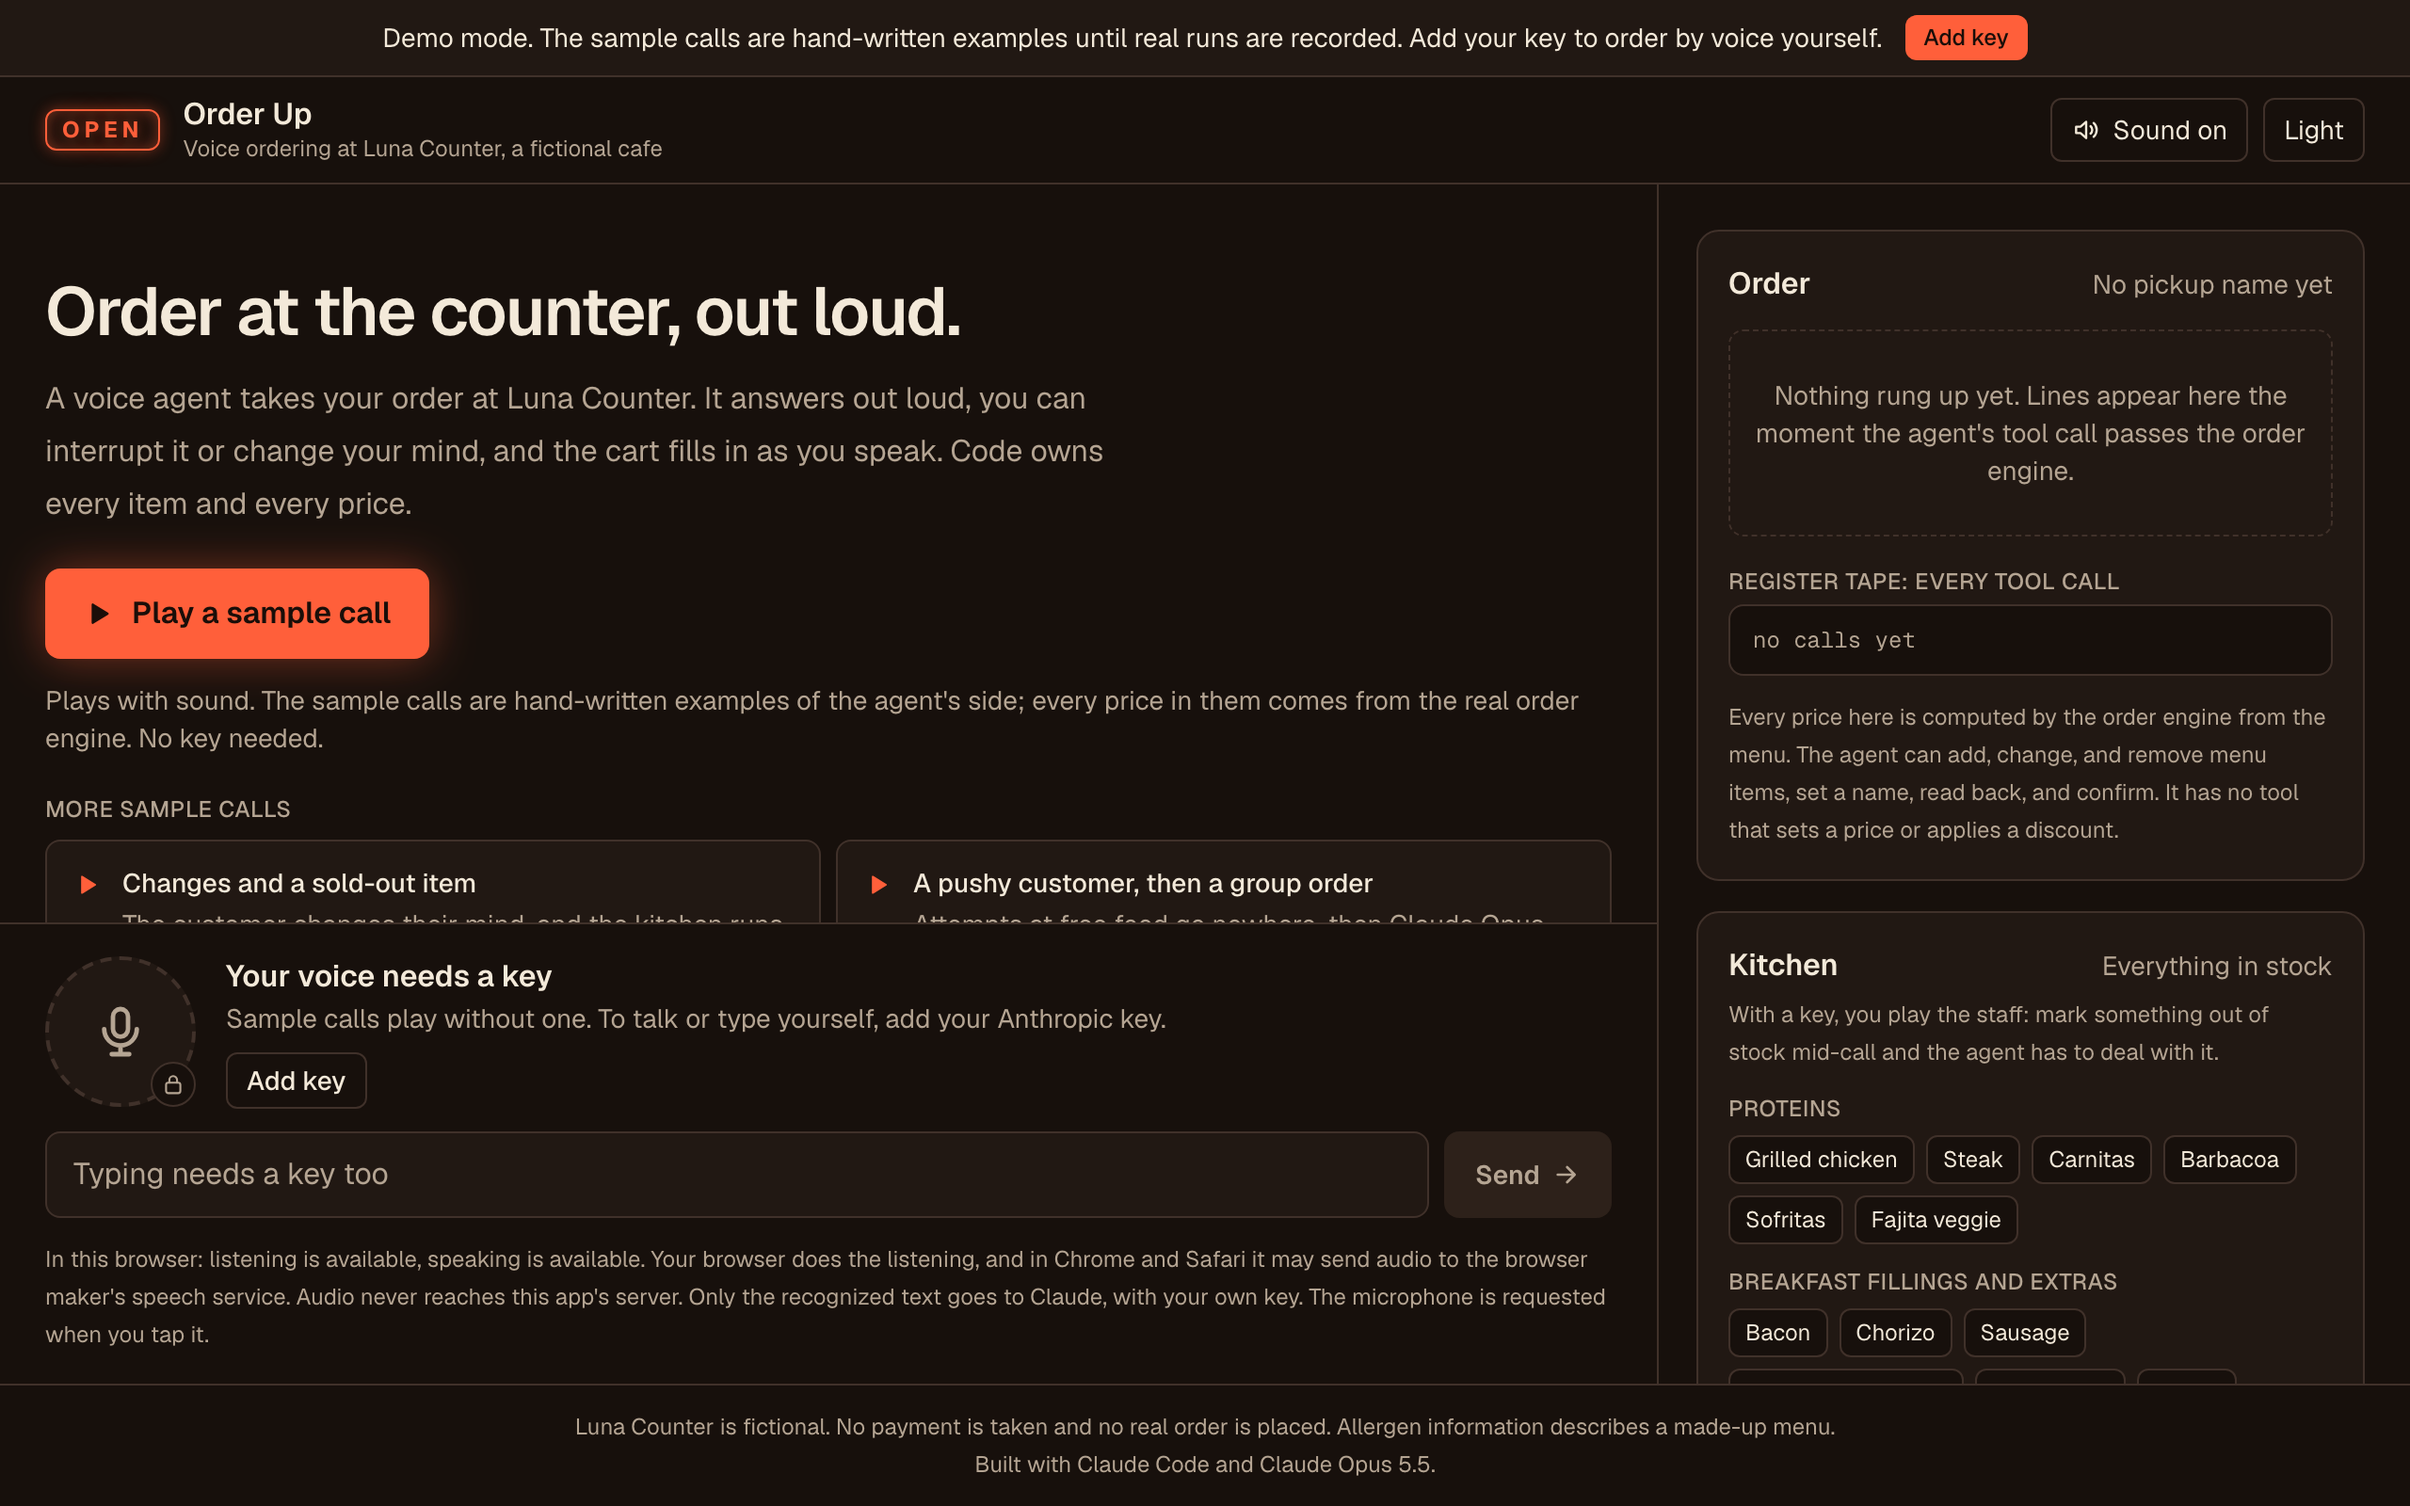
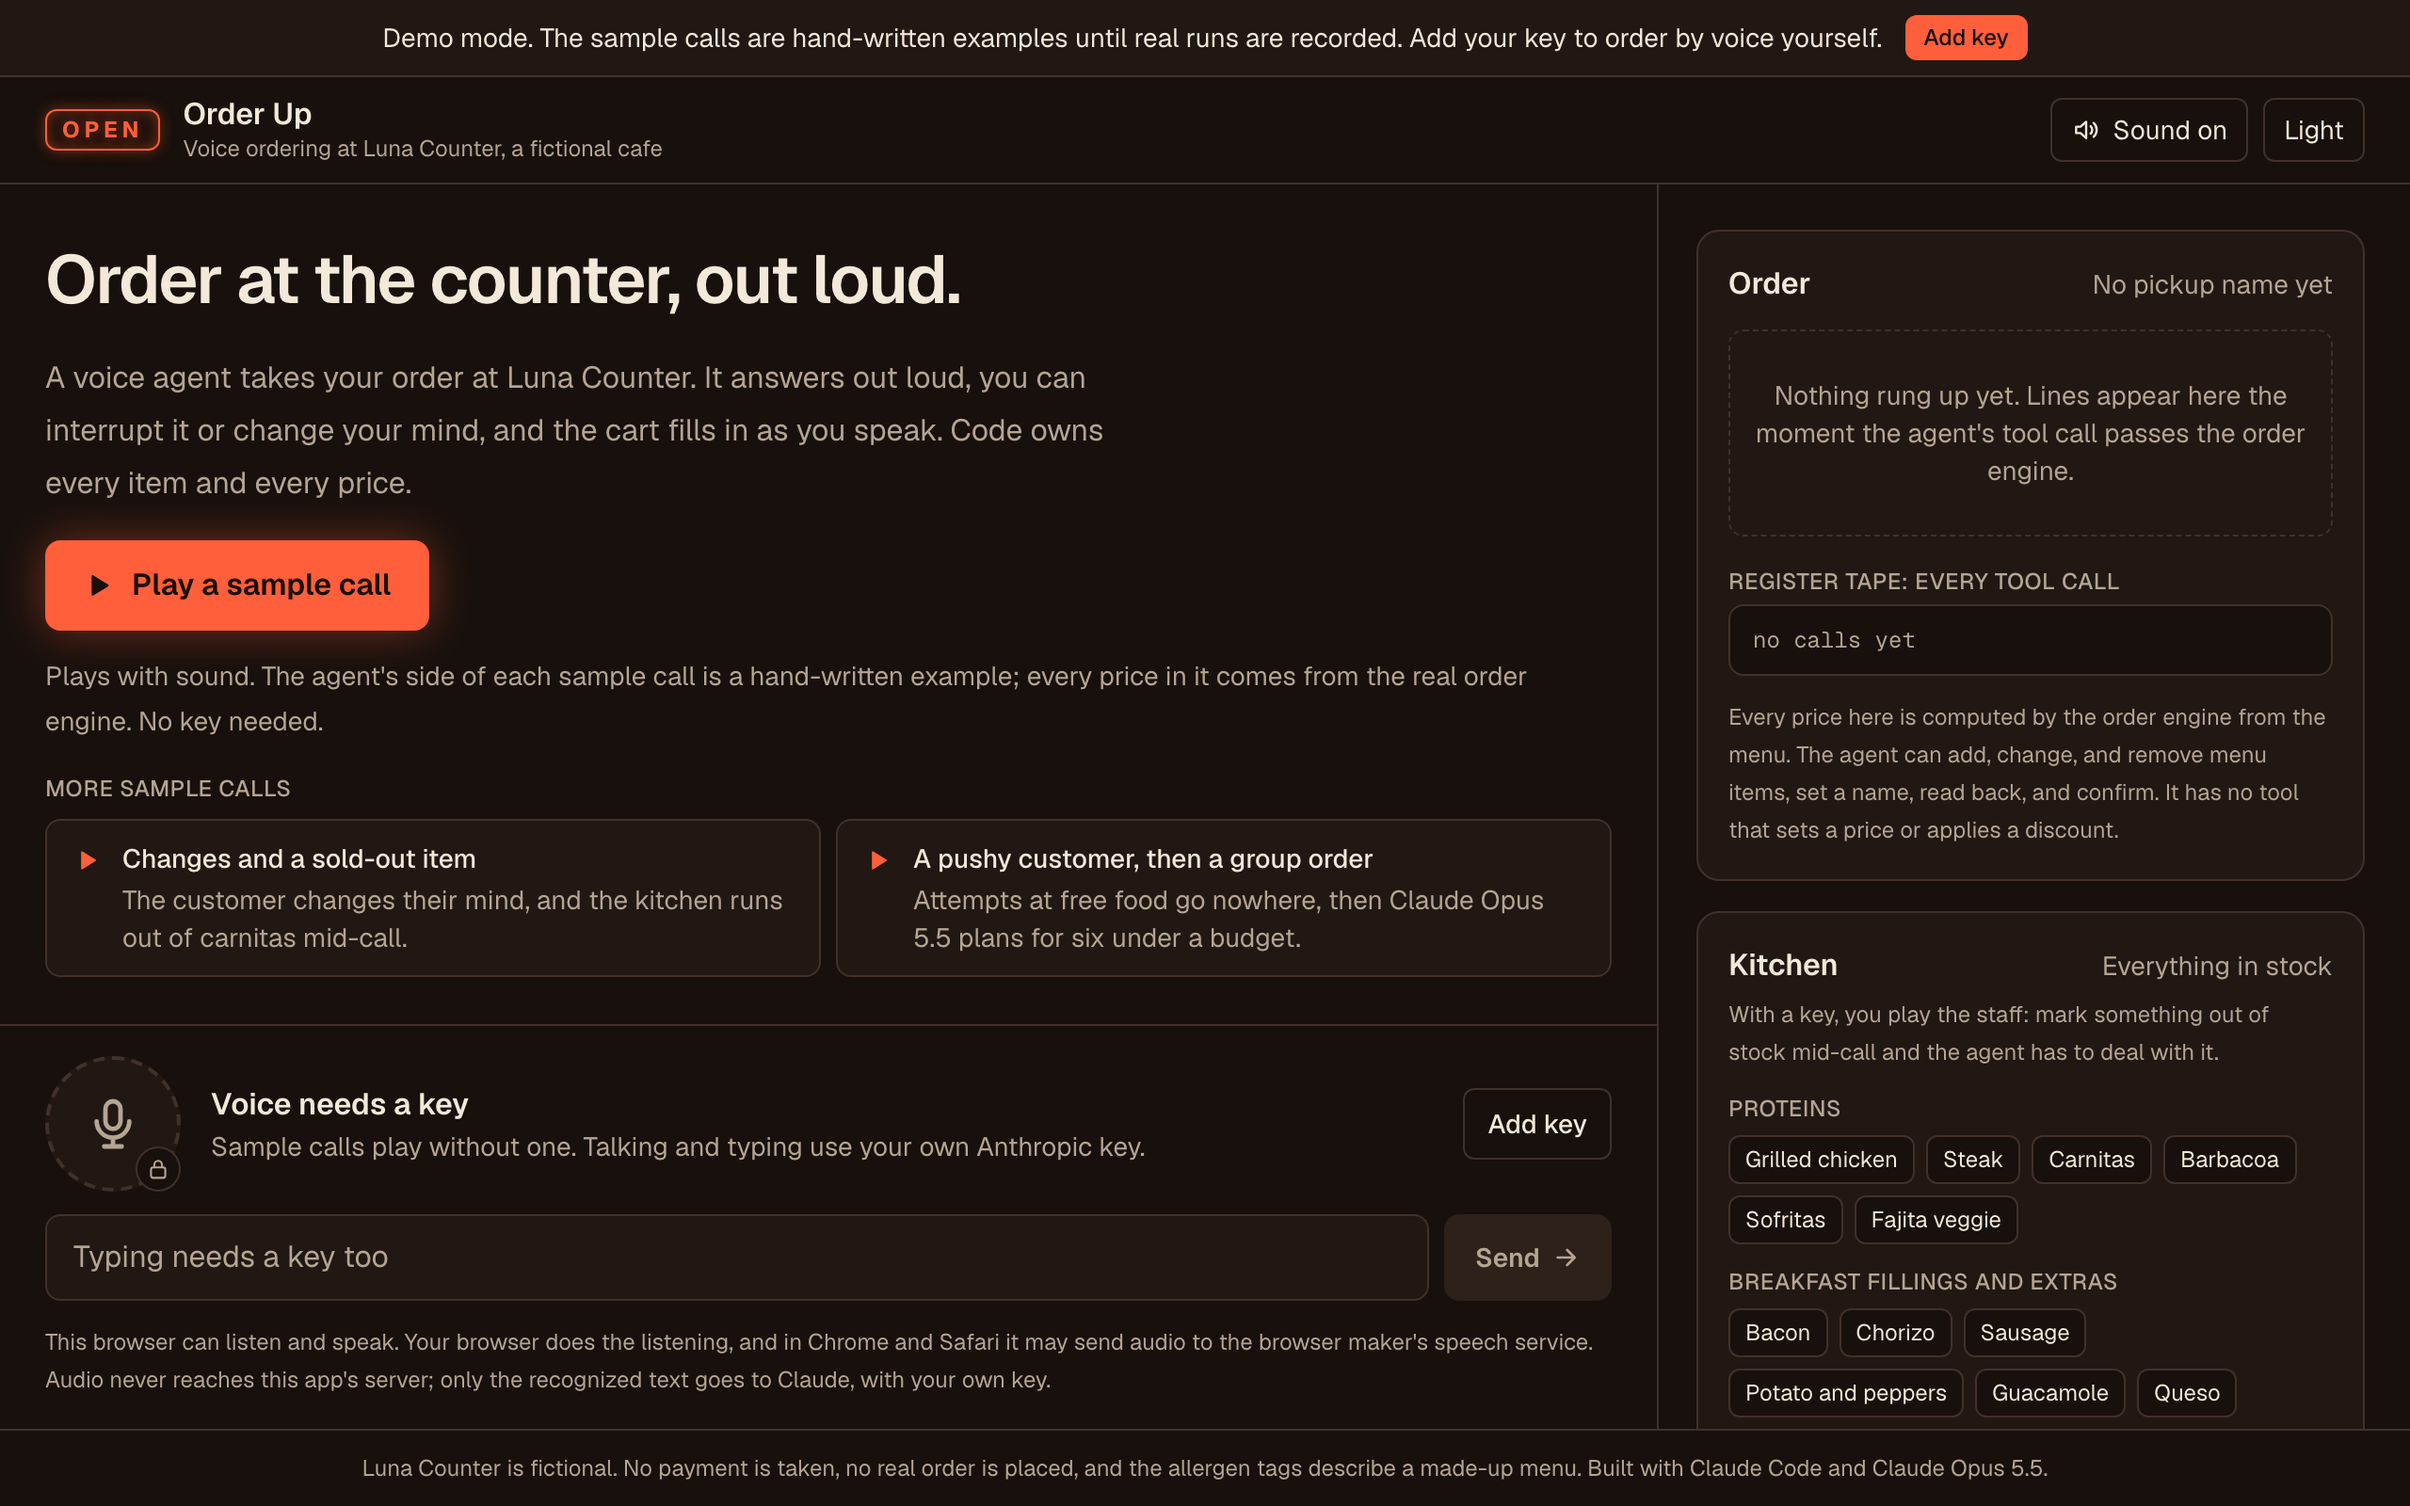
fix: compact dock, phone layout, and sample-to-live handoff
The call to action is on the first screen at 360x640, sample playback controls
replace the text box while a sample plays, the plan card shows inline on
phones, failed turns are marked as not answered, and a visitor with a key can
start their own call after a sample finishes.

Changed region(s): [[0.0, 0.1562, 0.9375, 1.0], [0.375, 0.5625, 0.6562, 0.6562], [0.625, 0.7188, 0.6562, 0.7812]]

diff --git a/components/order/Tape.tsx b/components/order/Tape.tsx
@@ -1,0 +1,61 @@
+import type { LogEntry } from "@/lib/voice/session";
+import { CheckIcon, CrossIcon } from "./icons";
+
+/** One tool call as a receipt-style line. Also used in the order panel's tape. */
+export function TapeLine({ entry, fresh = false }: { entry: LogEntry; fresh?: boolean }) {
+  const colon = entry.summary.indexOf(":");
+  const verb = colon === -1 ? entry.summary : entry.summary.slice(0, colon);
+  const rest = colon === -1 ? "" : entry.summary.slice(colon + 1).trim();
+  return (
+    <div
+      className={`flex items-start gap-2 rounded-sm px-1.5 py-1 font-mono text-xs leading-5 ${fresh ? "land" : ""}`}
+    >
+      <span
+        className={`mt-0.5 inline-flex size-4 shrink-0 items-center justify-center ${entry.ok ? "text-success" : "text-danger"}`}
+      >
+        {entry.ok ? <CheckIcon className="size-3.5" /> : <CrossIcon className="size-3.5" />}
+        <span className="sr-only">{entry.ok ? "Done:" : "Refused by the register:"}</span>
+      </span>
+      <span className="min-w-0 [overflow-wrap:anywhere]">
+        <span className={entry.ok ? "text-fg" : "text-danger"}>{verb}</span>
+        {rest && <span className="text-muted">: {rest}</span>}
+      </span>
+    </div>
+  );
+}
+
+/** A group plan as the order engine accepted it: the lines, the total, and the checks it passed. */
+export function PlanCard({ entry }: { entry: LogEntry }) {
+  const plan = entry.plan;
+  if (!plan) return null;
+  return (
+    <div className="my-1 rounded-md border border-border bg-bg p-2.5 text-xs">
+      <p className="font-medium">
+        Plan {plan.planId}: proposed by Claude Opus 5.5, checked and priced by the order engine
+      </p>
+      <ul className="mt-1.5 flex flex-col gap-0.5 font-mono">
+        {plan.lines.map((line, index) => (
+          <li key={index} className="flex justify-between gap-3">
+            <span className="min-w-0 [overflow-wrap:anywhere]">
+              {line.quantity} × {line.name}
+              {line.details.length > 0 ? `, ${line.details.join(", ")}` : ""}
+            </span>
+            <span className="shrink-0 tabular-nums">{line.price}</span>
+          </li>
+        ))}
+        <li className="mt-1 flex justify-between gap-3 border-t border-border pt-1 font-semibold">
+          <span>Total with tax{plan.budget ? ` (budget ${plan.budget})` : ""}</span>
+          <span className="tabular-nums">{plan.total}</span>
+        </li>
+      </ul>
+      <ul className="mt-2 flex flex-col gap-0.5 text-muted">
+        {plan.checks.map((check) => (
+          <li key={check} className="flex items-start gap-1.5">
+            <CheckIcon className="mt-0.5 size-3 shrink-0 text-success" />
+            <span>{check}</span>
+          </li>
+        ))}
+      </ul>
+    </div>
+  );
+}

diff --git a/components/order/Conversation.tsx b/components/order/Conversation.tsx
@@ -2,8 +2,9 @@
 
 import { CAFE } from "@/lib/menu";
 import { SAMPLES } from "@/lib/samples";
-import type { CallSnapshot, Caption, LogEntry } from "@/lib/voice/session";
-import { CheckIcon, CrossIcon, PlayIcon } from "./icons";
+import type { CallSnapshot, Caption } from "@/lib/voice/session";
+import { PlayIcon } from "./icons";
+import { PlanCard, TapeLine } from "./Tape";
 
 interface ConversationProps {
   snapshot: CallSnapshot;
@@ -11,29 +12,6 @@ interface ConversationProps {
   placeholder: boolean;
   isLive: boolean;
   onPlay: (sampleId: string) => void;
-}
-
-/** One tool call as a receipt-style line. Also used in the order panel's tape. */
-export function TapeLine({ entry, fresh = false }: { entry: LogEntry; fresh?: boolean }) {
-  const colon = entry.summary.indexOf(":");
-  const verb = colon === -1 ? entry.summary : entry.summary.slice(0, colon);
-  const rest = colon === -1 ? "" : entry.summary.slice(colon + 1).trim();
-  return (
-    <div
-      className={`flex items-start gap-2 rounded-sm px-1.5 py-1 font-mono text-xs leading-5 ${fresh ? "land" : ""}`}
-    >
-      <span
-        className={`mt-0.5 inline-flex size-4 shrink-0 items-center justify-center ${entry.ok ? "text-success" : "text-danger"}`}
-      >
-        {entry.ok ? <CheckIcon className="size-3.5" /> : <CrossIcon className="size-3.5" />}
-        <span className="sr-only">{entry.ok ? "Done:" : "Refused by the register:"}</span>
-      </span>
-      <span className="min-w-0 [overflow-wrap:anywhere]">
-        <span className={entry.ok ? "text-fg" : "text-danger"}>{verb}</span>
-        {rest && <span className="text-muted">: {rest}</span>}
-      </span>
-    </div>
-  );
 }
 
 function AgentCaption({ caption }: { caption: Extract<Caption, { role: "agent" }> }) {
@@ -191,6 +169,7 @@ export function Conversation({ snapshot, placeholder, isLive, onPlay }: Conversa
           // On wide screens the tape sits beside the order. On a phone it is shown here, in place.
           <div key={caption.id} className="lg:hidden">
             <TapeLine entry={caption.entry} />
+            <PlanCard entry={caption.entry} />
           </div>
         );
       })}

diff --git a/components/order/TimelinePanel.tsx b/components/order/TimelinePanel.tsx
@@ -71,22 +71,27 @@ function SampleStages({ timeline }: { timeline: TurnTimeline }) {
           </li>
         ))}
       </ol>
-      {timeline.placeholder || !timeline.recorded ? (
-        <p className="mt-3 rounded-md border border-dashed border-border px-2.5 py-2 text-xs leading-5 text-muted">
-          No numbers here on purpose. This sample call is a hand-written example, so nothing was
-          measured. On a live turn each stage shows its time in milliseconds after you stop talking.
-        </p>
-      ) : (
-        <p className="mt-3 rounded-md border border-dashed border-border px-2.5 py-2 text-xs leading-5 text-muted">
-          Recorded{timeline.recordedAt ? ` on ${timeline.recordedAt.slice(0, 10)}` : ""}, on the
-          server&apos;s clock:{" "}
-          {timeline.recorded.firstTextMs !== null
-            ? `first text after ${ms(timeline.recorded.firstTextMs)}, `
-            : ""}
-          whole turn in {ms(timeline.recorded.totalMs)}. Browser-side stages are only measured on a
-          live turn.
-        </p>
-      )}
+      <p className="mt-3 rounded-md border border-dashed border-border px-2.5 py-2 text-xs leading-5 text-muted">
+        {timeline.placeholder ? (
+          <>
+            No numbers here on purpose. This sample call is a hand-written example, so nothing was
+            measured. On a live turn each stage shows its time in milliseconds after you stop
+            talking.
+          </>
+        ) : timeline.recorded ? (
+          <>
+            Recorded{timeline.recordedAt ? ` on ${timeline.recordedAt.slice(0, 10)}` : ""}, on the
+            server&apos;s clock:{" "}
+            {timeline.recorded.firstTextMs !== null
+              ? `first text after ${ms(timeline.recorded.firstTextMs)}, `
+              : ""}
+            whole turn in {ms(timeline.recorded.totalMs)}. Browser-side stages are only measured on
+            a live turn.
+          </>
+        ) : (
+          <>No timing was stored with this turn. Browser-side stages are measured on a live turn.</>
+        )}
+      </p>
     </>
   );
 }

diff --git a/components/order/CartPanel.tsx b/components/order/CartPanel.tsx
@@ -3,44 +3,8 @@
 import { useEffect, useRef } from "react";
 import { formatCents } from "@/lib/money";
 import type { PricedCart, Receipt } from "@/lib/order/engine";
-import type { CallSnapshot, LogEntry } from "@/lib/voice/session";
-import { TapeLine } from "./Conversation";
-import { CheckIcon } from "./icons";
-
-function PlanCard({ entry }: { entry: LogEntry }) {
-  const plan = entry.plan;
-  if (!plan) return null;
-  return (
-    <div className="my-1 rounded-md border border-border bg-bg p-2.5 text-xs">
-      <p className="font-medium">
-        Plan {plan.planId}: proposed by Claude Opus 5.5, checked and priced by the order engine
-      </p>
-      <ul className="mt-1.5 flex flex-col gap-0.5 font-mono">
-        {plan.lines.map((line, index) => (
-          <li key={index} className="flex justify-between gap-3">
-            <span className="min-w-0 [overflow-wrap:anywhere]">
-              {line.quantity} × {line.name}
-              {line.details.length > 0 ? `, ${line.details.join(", ")}` : ""}
-            </span>
-            <span className="shrink-0 tabular-nums">{line.price}</span>
-          </li>
-        ))}
-        <li className="mt-1 flex justify-between gap-3 border-t border-border pt-1 font-semibold">
-          <span>Total with tax{plan.budget ? ` (budget ${plan.budget})` : ""}</span>
-          <span className="tabular-nums">{plan.total}</span>
-        </li>
-      </ul>
-      <ul className="mt-2 flex flex-col gap-0.5 text-muted">
-        {plan.checks.map((check) => (
-          <li key={check} className="flex items-start gap-1.5">
-            <CheckIcon className="mt-0.5 size-3 shrink-0 text-success" />
-            <span>{check}</span>
-          </li>
-        ))}
-      </ul>
-    </div>
-  );
-}
+import type { CallSnapshot } from "@/lib/voice/session";
+import { PlanCard, TapeLine } from "./Tape";
 
 function Totals({ cart }: { cart: PricedCart }) {
   return (

diff --git a/components/order/OrderUp.tsx b/components/order/OrderUp.tsx
@@ -95,8 +95,8 @@ export function OrderUp({ placeholder }: { placeholder: boolean }) {
             OPEN
           </span>
           <div className="min-w-0">
-            <h1 className="text-base leading-5 font-semibold">Order Up</h1>
-            <p className="truncate text-xs text-muted">
+            <h1 className="text-base leading-5 font-semibold whitespace-nowrap">Order Up</h1>
+            <p className="hidden truncate text-xs text-muted sm:block">
               Voice ordering at {CAFE.name}, a fictional cafe
             </p>
           </div>
@@ -106,9 +106,10 @@ export function OrderUp({ placeholder }: { placeholder: boolean }) {
             <button
               type="button"
               onClick={() => session.reset()}
+              aria-label="Start a new call"
               className="rounded-md border border-border px-2.5 py-1.5 text-sm hover:bg-surface"
             >
-              New call
+              New<span className="hidden sm:inline"> call</span>
             </button>
           )}
           <button

diff --git a/lib/speech/web.ts b/lib/speech/web.ts
@@ -206,6 +206,13 @@ export class WebSpeechOutput implements SpeechOutput {
   private readonly keepAlive = new Set<SpeechSynthesisUtterance>();
   private unlocked = false;
 
+  constructor() {
+    // Chrome loads its voice list lazily; asking early means the first sentence gets the right voice.
+    if (typeof window !== "undefined" && "speechSynthesis" in window) {
+      window.speechSynthesis.getVoices();
+    }
+  }
+
   speak(text: string, options: SpeakOptions): Promise<SpeakResult> {
     return new Promise((resolve) => {
       const synth = window.speechSynthesis;

diff --git a/components/order/MicDock.tsx b/components/order/MicDock.tsx
@@ -53,7 +53,7 @@ function micCopy(args: { snapshot: CallSnapshot; isLive: boolean; canListen: boo
     if (snapshot.finished)
       return { label: "Sample call finished", hint: "That was the whole call." };
     return {
-      label: "Your voice needs a key",
+      label: "Voice needs a key",
       hint: "Sample calls play without one.",
       more: " Talking and typing use your own Anthropic key.",
     };
